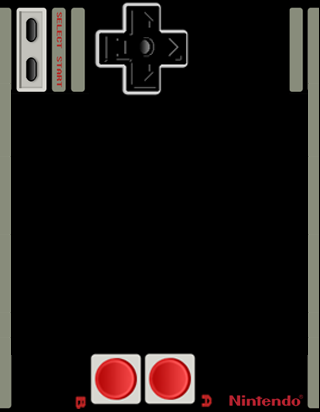
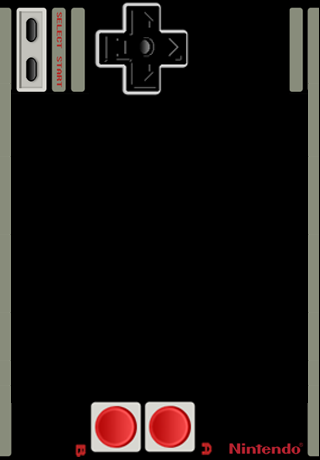
Importing nesapp-0.15

diff --git a/src/MainView.m b/src/MainView.m
@@ -21,28 +21,34 @@
 @implementation MainView 
 - (id)initWithFrame:(struct CGRect)rect {
 	if ((self == [super initWithFrame: rect]) != nil) {
+                float offset = 0.0;
+#ifndef LANDSCAPE
+                offset = 48.0;
 		_navBar = [[UINavigationBar alloc] initWithFrame:
 			CGRectMake(rect.origin.x, rect.origin.y, rect.size.width, 48.0f)
 		];
 		[_navBar setDelegate: self];
 		[_navBar showButtonsWithLeftTitle:nil rightTitle:@"Refresh" leftBack: YES];
 		[_navBar enableAnimation];
+#endif
 
 		_transitionView = [[UITransitionView alloc] initWithFrame: 
-			CGRectMake(rect.origin.x, 48.0f, rect.size.width, rect.size.height - 48.0f)
+			CGRectMake(rect.origin.x, offset, rect.size.width, rect.size.height - offset)
 		];
 
 		_browser = [[FileBrowser alloc] initWithFrame:
-			CGRectMake(0, 0, rect.size.width, rect.size.height - 48.0f)
+			CGRectMake(0, 0, rect.size.width, rect.size.height - offset)
 		];
 		_emuView = [[EmulationView alloc] initWithFrame:
-			CGRectMake(0, 0, rect.size.width, rect.size.height - 48.0f)
+			CGRectMake(0, 0, rect.size.width, rect.size.height - offset)
 		];
 
 		[_browser setPath:@"/var/root/Media/ROMs/NES/"];
 		[_browser setDelegate: self];
 
+#ifndef LANDSCAPE
 		[self addSubview: _navBar];
+#endif
 		[self addSubview: _transitionView];
 
 		[_transitionView transition:1 toView:_browser];
@@ -52,7 +58,9 @@
 }
 - (void)dealloc {
 	[_browser release];
+#ifndef LANDSCAPE
 	[_navBar release];
+#endif
 	[super dealloc];
 }
 
@@ -74,7 +82,9 @@
 			if (!_browsing) {	// ROM List
 				[_emuView stopEmulator];
 				[_transitionView transition:2 toView:_browser];
+#ifndef LANDSCAPE
 				[_navBar showButtonsWithLeftTitle:nil rightTitle:@"Refresh" leftBack: YES];
+#endif
 			}
 			break;
 	}
@@ -83,7 +93,9 @@
 - (void)fileBrowser: (FileBrowser *)browser fileSelected:(NSString *)file {
 	if ([_emuView loadROM: file]) {
 		[_transitionView transition:1 toView:_emuView];
+#ifndef LANDSCAPE
 		[_navBar showButtonsWithLeftTitle:@"ROM List" rightTitle:@"Restart" leftBack: YES];
+#endif
 		_browsing = NO;
 		[_emuView startEmulator];
 

diff --git a/src/EmulationView.m b/src/EmulationView.m
@@ -27,7 +27,7 @@ extern char emuThread;
 - (id)initWithFrame:(CGRect)frame {
     if ((self == [super initWithFrame:frame])!=nil) {
 #ifdef LANDSCAPE
-        _controller = [[ControllerView alloc] initWithFrame: CGRectMake(frame.origin.x, 0, frame.size.width, 412)];
+        _controller = [[ControllerView alloc] initWithFrame: CGRectMake(frame.origin.x, 0, frame.size.width, 460)];
 #else
         _controller = [[ControllerView alloc] initWithFrame: CGRectMake(frame.origin.x, frame.size.height-119, frame.size.width, 119)];
 #endif
@@ -37,14 +37,13 @@ extern char emuThread;
         int width = 240;
         int height = 256;
         int xOffset = floor((frame.size.width-width)/2);
-        int yOffset = 98;
+        int yOffset = 122;
 #else
 	int width = 256;
 	int height = 240;
         int xOffset = floor((frame.size.width-width)/2);
         int yOffset = floor((frame.size.height-119-height)/2);
 #endif
-
         _screenView = [[ScreenView alloc] initWithFrame: CGRectMake(xOffset, yOffset, width, height)];
 
         [self addSubview: _controller];

diff --git a/src/ControllerView.m b/src/ControllerView.m
@@ -28,8 +28,8 @@ extern unsigned long dwKeyPad1;
 	if ((self == [super initWithFrame:frame])!=nil) {
 #ifdef LANDSCAPE
 		_controllerImage = [UIImage applicationImageNamed:@"controller_landscape.png"];
-                B = CGRectMake(83, 353, 59, 59);
-                A = CGRectMake(144, 353, 59, 59);
+                B = CGRectMake(83, 401, 59, 59);
+                A = CGRectMake(144, 401, 59, 59);
                 Up = CGRectMake(164, 26, 38, 46);
                 Down = CGRectMake(89, 28, 32, 42);
                 Left = CGRectMake(122, 0, 40, 42);
@@ -64,7 +64,7 @@ extern unsigned long dwKeyPad1;
 	rect2.origin.y = 0;
 	rect2.size.width = 320;
 #ifdef LANDSCAPE
-	rect2.size.height = 412;
+	rect2.size.height = 460;
 #else
        rect2.size.height = 119;
 #endif

diff --git a/src/NESApp.m b/src/NESApp.m
@@ -33,6 +33,7 @@
 	[_window orderFront: self];
 	[_window makeKey: self];
 	[_window _setHidden: NO];
+//        [self setStatusBarMode: 2 duration: 0];
 }
 
 - (void)applicationWillTerminate {
